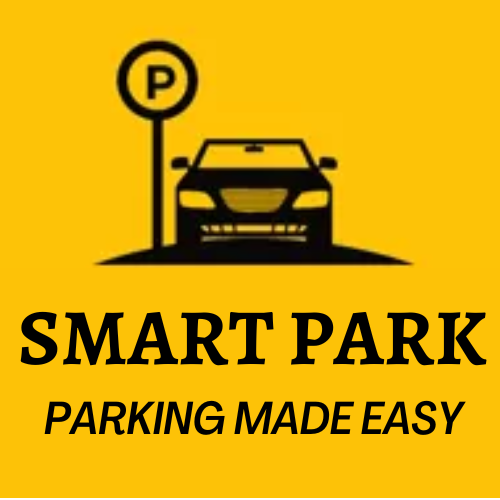
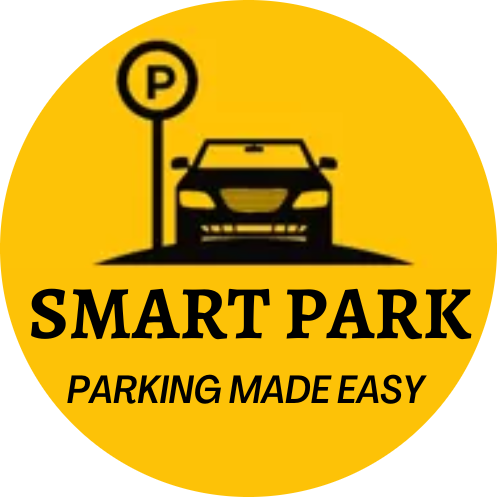
change design

diff --git a/index.html b/index.html
@@ -13,25 +13,19 @@
     <div>
     <nav>
         <ul>
-            <li class="smartPark"><img src="image/photo11.png" alt="logo"></li>
+            <li class="smartPark"><img src="image/photo1.png" alt="logo"></li>
             <li><a href="index.html">Smart Park</a></li>
             <p class="title">Smart <span>Park</span> </p>
             <li class="join"><a href="join.html">Join</a></li>
         </ul>
     </nav>
-<img src="image/photo13.jpg" alt="banner">
-    <div>
-        
-        <h1>Welcome to Our Parking Website</h1>
-    </div>
-
     <div class="click">
         <h1>Park your car now!</h1><br><br>
         <a href="back.html"><button type="button">Click here to check availability</button>
         </a>
     </div>
 
-<img src="image/photo6.jpg" alt="banner">
+<img src="image/photo4.jpg" alt="banner">
 
 <div>
     <h1><em><b>Our Services</b></em></h1>    
@@ -56,7 +50,7 @@
 <p>------------------------------------------</p><br><br>
 
 <div class="service">
-    <img src="image/photo5.jfif" alt="photo5">
+    <img src="image/photo5.jpg" alt="photo5">
     <h2>This helps in utilizing limited
         parking efficiently, preventing car park abuse, managing customer/employee traffic and also save on cost of
         personnel.</h2>

diff --git a/styles.css b/styles.css
@@ -125,5 +125,8 @@ input[type="submit"] {
 input[type="submit"]:hover {
     background-color: #555;
 }
-
+img{
+    height: 100%;
+    width: 100%;
+}
 
